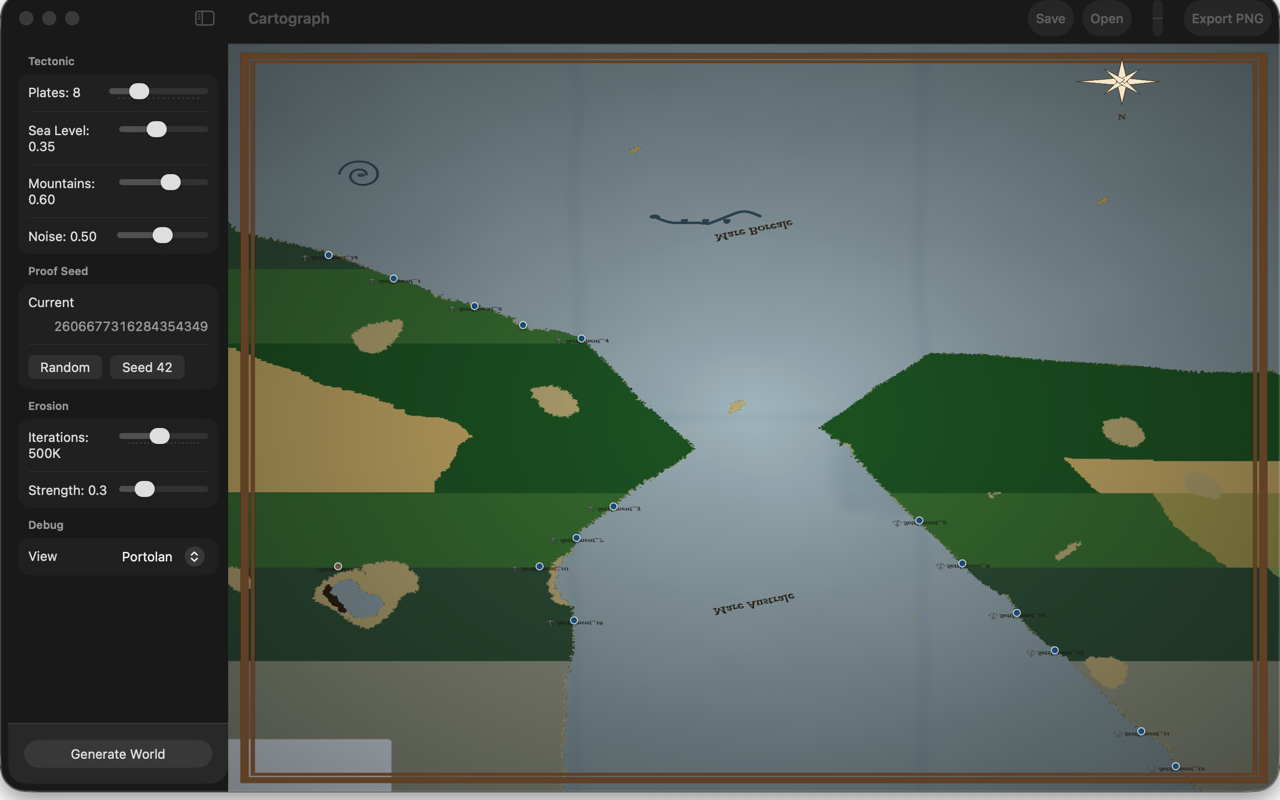
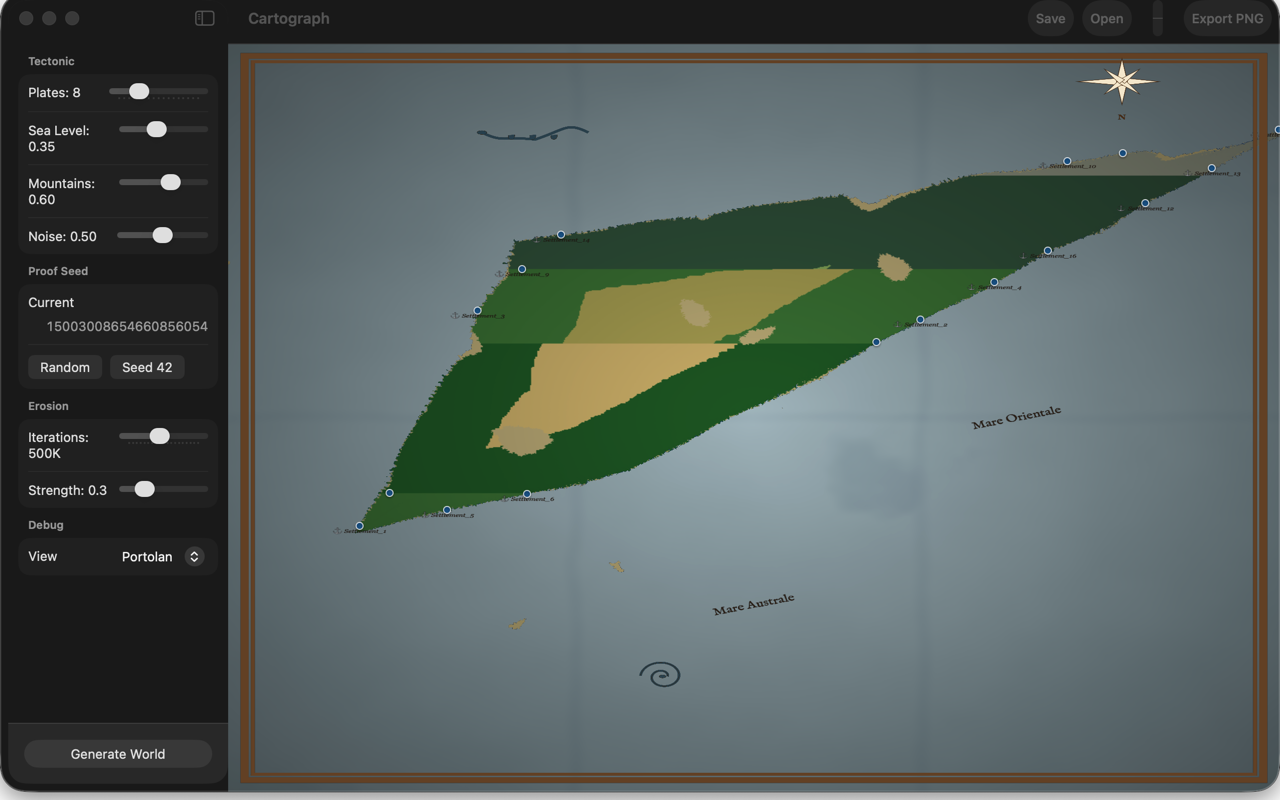
feat: harden Cartograph for macOS distribution (#11)

diff --git a/Cartograph/Views/ContentView.swift b/Cartograph/Views/ContentView.swift
@@ -7,6 +7,14 @@ struct ContentView: View {
     @State private var engine   = TerrainEngine()
     @State private var params   = WorldParameters()
     @State private var renderRevision = 0
+    @State private var isExporting = false
+    @State private var presentedError: PresentedError?
+
+    private struct PresentedError: Identifiable {
+        let id = UUID()
+        let title: String
+        let message: String
+    }
 
     var body: some View {
         NavigationSplitView {
@@ -45,18 +53,21 @@ struct ContentView: View {
                     saveDocument()
                 }
                 .disabled(engine.isGenerating)
+                .keyboardShortcut("s", modifiers: .command)
 
                 Button("Open") {
                     openDocument()
                 }
                 .disabled(engine.isGenerating)
+                .keyboardShortcut("o", modifiers: .command)
 
                 Divider()
 
-                Button("Export PNG") {
+                Button(isExporting ? "Exporting…" : "Export PNG") {
                     exportPNG()
                 }
-                .disabled(engine.debugMode != .portolan || engine.isGenerating)
+                .disabled(engine.debugMode != .portolan || engine.isGenerating || isExporting)
+                .keyboardShortcut("e", modifiers: [.command, .shift])
             }
         }
         .onAppear {
@@ -77,6 +88,18 @@ struct ContentView: View {
             if engine.isGenerating {
                 updateRendererTexture()
             }
+        }
+        .onChange(of: engine.settlements) {
+            guard engine.debugMode == .portolan, !engine.isGenerating else { return }
+            renderer.preparePasses(engine: engine)
+            renderRevision &+= 1
+        }
+        .alert(item: $presentedError) { error in
+            Alert(
+                title: Text(error.title),
+                message: Text(error.message),
+                dismissButton: .default(Text("OK"))
+            )
         }
     }
 
@@ -164,7 +187,7 @@ struct ContentView: View {
                 to: url
             )
         } catch {
-            print("[ContentView] Save failed: \(error)")
+            present(error, title: "Couldn’t Save World")
         }
     }
 
@@ -193,7 +216,7 @@ struct ContentView: View {
             engine.debugMode = .portolan
             updateRendererTexture()
         } catch {
-            print("[ContentView] Load failed: \(error)")
+            present(error, title: "Couldn’t Open World")
         }
     }
 
@@ -233,10 +256,22 @@ struct ContentView: View {
         panel.nameFieldStringValue = "world_map.png"
         panel.begin { response in
             if response == .OK, let url = panel.url {
+                isExporting = true
                 Task {
-                    try? await ExportEngine.export(renderer: renderer, engine: engine, to: url)
+                    defer { isExporting = false }
+                    do {
+                        try await ExportEngine.export(renderer: renderer, engine: engine, to: url)
+                    } catch {
+                        present(error, title: "Couldn’t Export PNG")
+                    }
                 }
             }
         }
+    }
+
+    @MainActor
+    private func present(_ error: Error, title: String) {
+        let message = (error as? LocalizedError)?.errorDescription ?? error.localizedDescription
+        presentedError = PresentedError(title: title, message: message)
     }
 }

diff --git a/Cartograph/Rendering/LabelPass.swift b/Cartograph/Rendering/LabelPass.swift
@@ -378,9 +378,11 @@ struct LabelPass: RenderPass {
             attrs as CFDictionary
         )!
         let line = CTLineCreateWithAttributedString(attrStr)
-        let bounds = CTLineGetImageBounds(line, ctx)
-        let lineW = bounds.width
-        let lineH = bounds.height
+        var ascent: CGFloat = 0
+        var descent: CGFloat = 0
+        var leading: CGFloat = 0
+        let lineW = CGFloat(CTLineGetTypographicBounds(line, &ascent, &descent, &leading))
+        let lineH = ascent + descent
 
         // Overlap grid check
         let gx0 = max(0, Int((centerX - lineW / 2) / cellW))
@@ -410,8 +412,10 @@ struct LabelPass: RenderPass {
         if abs(rotation) > 1e-6 {
             ctx.rotate(by: rotation)
         }
-        // CoreText text origin is at the baseline-left; offset so text is centred
-        ctx.textPosition = CGPoint(x: -lineW / 2, y: -lineH / 2)
+        // Map placement uses top-left coordinates, while CoreText expects Y-up.
+        // Flip only glyph space so labels stay upright at the same map position.
+        ctx.scaleBy(x: 1, y: -1)
+        ctx.textPosition = CGPoint(x: -lineW / 2, y: -(ascent - descent) / 2)
         CTLineDraw(line, ctx)
         ctx.restoreGState()
     }

diff --git a/Cartograph/Rendering/ExportEngine.swift b/Cartograph/Rendering/ExportEngine.swift
@@ -11,13 +11,30 @@ import ImageIO
 
 struct ExportEngine {
 
-    enum ExportError: Error {
+    enum ExportError: LocalizedError {
         case metalSetupFailed
         case textureCreationFailed
         case bufferCreationFailed
         case encoderCreationFailed
         case imageCreationFailed
         case fileWriteFailed
+
+        var errorDescription: String? {
+            switch self {
+            case .metalSetupFailed:
+                return "Cartograph could not initialize Metal for export."
+            case .textureCreationFailed:
+                return "Cartograph could not allocate the 4096-pixel export surface."
+            case .bufferCreationFailed:
+                return "Cartograph could not allocate the export geometry buffers."
+            case .encoderCreationFailed:
+                return "Cartograph could not start the export renderer."
+            case .imageCreationFailed:
+                return "Cartograph rendered the map but could not create a PNG image."
+            case .fileWriteFailed:
+                return "Cartograph could not write the PNG to the selected location."
+            }
+        }
     }
 
     static func export(

diff --git a/CartographTests/ExportEngineTests.swift b/CartographTests/ExportEngineTests.swift
@@ -7,6 +7,19 @@ import XCTest
 
 final class ExportEngineTests: XCTestCase {
 
+    func testExportErrorsProvideUserFacingDescriptions() {
+        let errors: [ExportEngine.ExportError] = [
+            .metalSetupFailed,
+            .textureCreationFailed,
+            .bufferCreationFailed,
+            .encoderCreationFailed,
+            .imageCreationFailed,
+            .fileWriteFailed,
+        ]
+
+        XCTAssertTrue(errors.allSatisfy { !($0.errorDescription ?? "").isEmpty })
+    }
+
     private var tempDir: URL!
 
     override func setUp() {

diff --git a/Cartograph/Model/SettlementModel.swift b/Cartograph/Model/SettlementModel.swift
@@ -1,7 +1,7 @@
 import Foundation
 import simd
 
-struct Settlement: Identifiable, Codable {
+struct Settlement: Identifiable, Codable, Equatable {
     let id: UUID
     var name: String
     var position: SIMD2<Float>

diff --git a/README.md b/README.md
@@ -49,6 +49,11 @@ make export-developer-id
 `.derivedData/exports/developer-id/Cartograph.app`; notarization is still
 required before public distribution.
 
+Export commands never ask Xcode to update Apple provisioning state by default.
+An operator who intentionally wants Xcode-managed provisioning may opt in with
+`PROVISIONING_UPDATE_FLAG=-allowProvisioningUpdates` after reviewing the active
+team and signing destination.
+
 ## Tech Stack
 
 | Layer | Technology |
